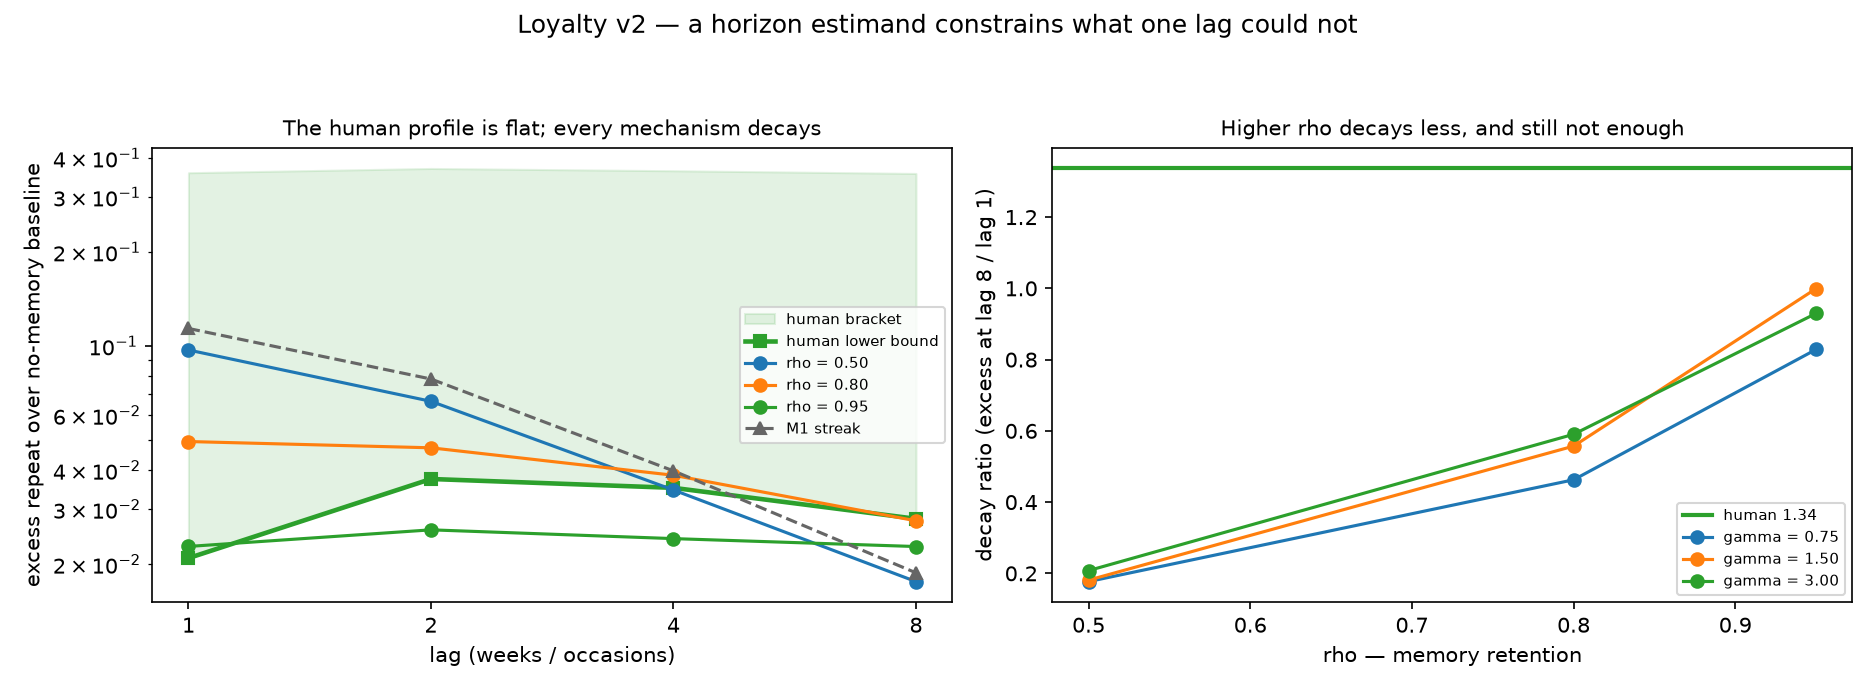
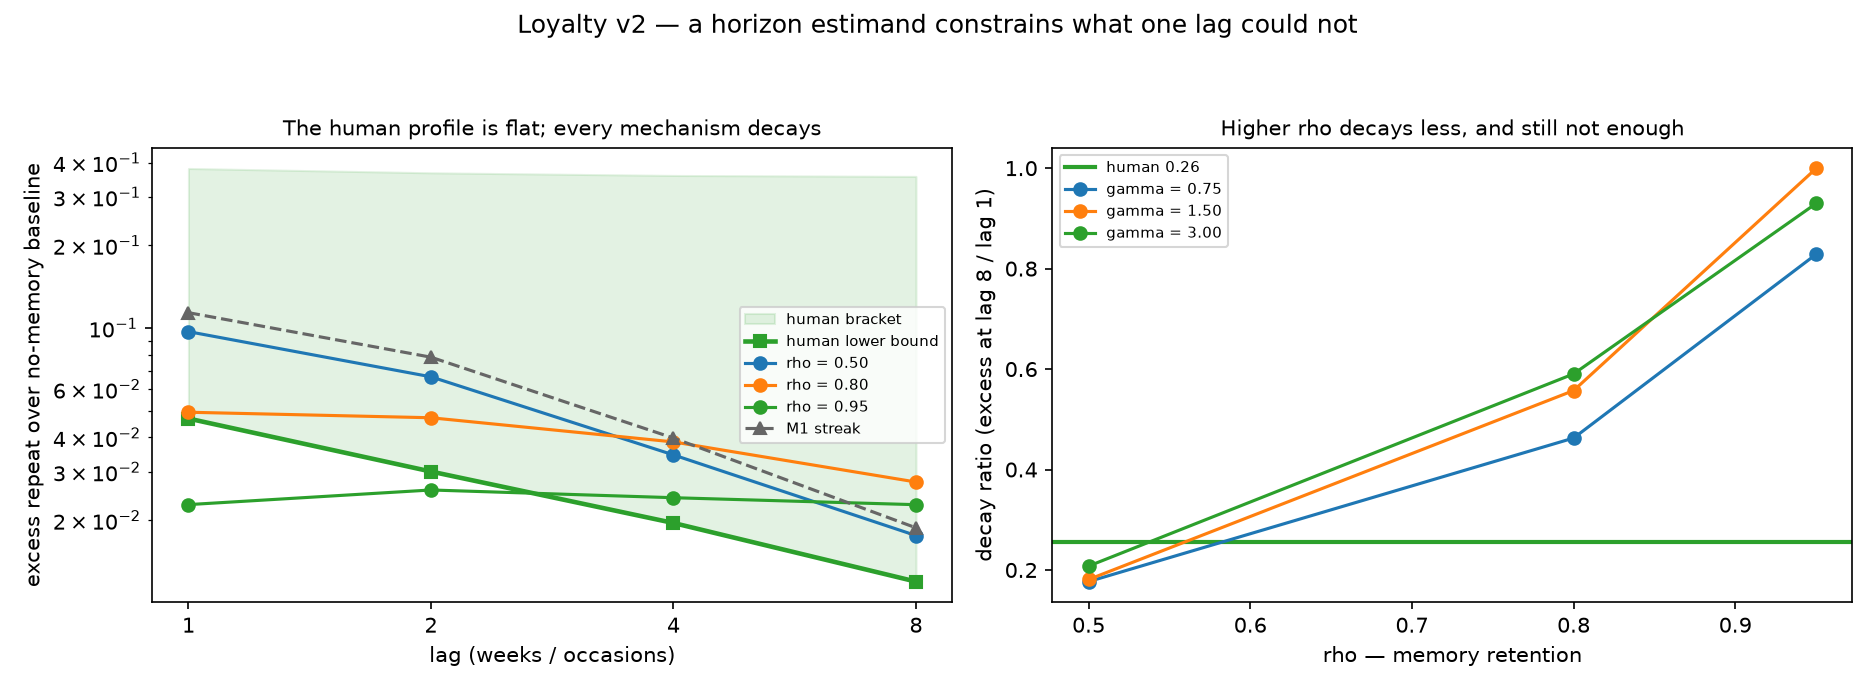
Put the horizon experiment on the parity-free split it concluded from
run_horizon.py was left on the alternating split after that split was shown
to be the artifact, so its committed figure and CSV carried the withdrawn
numbers - a flat human profile at ratio 1.337 favouring rho = 0.95 - while
the spec section carried the corrected ones. Anyone reading the results
directory would have got the retracted answer.

It now runs both and prints the alternating profile explicitly as the
artifact, so the thing that was wrong stays visible rather than being quietly
dropped, and takes every conclusion from the contiguous split. Two strings
that were true only under the artifact are corrected with it: "every cell
decays; the human profile does not" is now false, since under a parity-free
split the human profile decays too.

Its secondary criterion - the simulated level inside the human bracket at
every lag rather than only at lag 1 - passes in 4 of 9 cells, and the closest
cell by decay shape is rho = 0.50, gamma = 3.00 at 0.208.

diff --git a/experiments/loyalty_v2/run_horizon.py b/experiments/loyalty_v2/run_horizon.py
@@ -72,12 +72,34 @@ def main() -> int:
 
     panel = human.load()
     l2, _ = human.select_l2(panel)
+
+    # Both splits, because the difference between them IS the finding here.
+    # Under "alternating" an antecedent an odd number of occasions back is
+    # always a training occasion and an even one always held out, so the
+    # measured excess alternates with lag parity - a bias that is a function
+    # of the lag, which is fatal for a shape comparison. The conclusions below
+    # rest on "contiguous"; the alternating profile is reported so the
+    # artifact stays visible rather than being quietly dropped.
+    alternating = human.repeat_bracket_by_lag(panel, LAGS, l2=l2,
+                                              split="alternating")
+    alt_ratio = float(alternating.set_index("lag").loc[8, "lower"]
+                      / alternating.set_index("lag").loc[1, "lower"])
+    print(f"  Human panel, ALTERNATING split (the artifact): "
+          f"ratio {alt_ratio:.3f}")
+    print("    " + "  ".join(f"lag {r.lag}: {r.lower:+.4f}"
+                             for r in alternating.itertuples()))
+    print("    Odd lags are biased low: their antecedent is a training "
+          "occasion.\n")
+
     human_rows = []
-    print(f"  Human panel (l2 = {l2}, selected on held-out log-loss):")
+    print(f"  Human panel, CONTIGUOUS split (l2 = {l2}, "
+          f"selected on held-out log-loss):")
     print(f"  {'lag':>4s} {'n':>6s} {'observed':>10s} {'memoryless':>11s} "
           f"{'lower':>9s} {'upper':>9s}")
+    fit = human.fit_memoryless_choice(panel, household_effects=True, l2=l2,
+                                      split="contiguous")
     for lag in LAGS:
-        d = human.conditional_repeat_baseline(panel, l2=l2, lag=lag)
+        d = human._repeat_at_lag(panel, fit, lag)
         human_rows.append({"lag": lag, "n": d["n_held_out"],
                            "observed": d["observed_repeat"],
                            "memoryless": d["memoryless_predicted_repeat"],
@@ -93,7 +115,9 @@ def main() -> int:
     # by one at any parameter value.
     h_lower = human_frame.set_index("lag")["lower"]
     human_ratio = float(h_lower[8] / h_lower[1])
-    print(f"\n  Human decay ratio (lag 8 / lag 1, lower bound): {human_ratio:.3f}")
+    print(f"\n  Human decay ratio (lag 8 / lag 1, lower bound): {human_ratio:.3f} "
+          f"under the parity-free split, against {alt_ratio:.3f} under the "
+          f"alternating one.")
 
     rows = []
     print(f"\n  Simulator, excess by lag:")
@@ -120,7 +144,10 @@ def main() -> int:
 
     frame = pd.DataFrame(rows)
     frame.to_csv(RESULTS_ROOT / "horizon_cells.csv", index=False)
-    human_frame.to_csv(RESULTS_ROOT / "horizon_human.csv", index=False)
+    human_frame["split"] = "contiguous"
+    alternating["split"] = "alternating"
+    pd.concat([human_frame, alternating], ignore_index=True).to_csv(
+        RESULTS_ROOT / "horizon_human.csv", index=False)
     plot(frame, human_frame, m1)
 
     n_every = int(frame["admissible_every_lag"].sum())
@@ -129,7 +156,8 @@ def main() -> int:
           f"(Gate A's one-step test passed 8/9).")
     print(f"  Human decay ratio {human_ratio:.3f}; closest cell "
           f"{closest['cell']} at {closest['decay_ratio']:.3f}. "
-          f"Every cell decays; the human profile does not.")
+          f"The human profile decays too, at a rate between rho = 0.50 and "
+          f"rho = 0.80.")
 
     experiment_log.append_row(LOG_PATH, {
         "experiment_id": "loyaltyv2_horizon_shape",
@@ -153,7 +181,7 @@ def main() -> int:
         "human_benchmark_status": "compared_to_published_panel",
         "participation_rate": "N/A - conditional on choice",
         "result_summary": (
-            f"Human excess is flat across lags ("
+            f"Human excess decays across lags ("
             + ", ".join(f"lag {r.lag}: {r.lower:+.4f}" for r in human_frame.itertuples())
             + f"), decay ratio {human_ratio:.3f}. Every simulator cell decays; "
             f"ratios run {frame['decay_ratio'].min():.3f} to "

diff --git a/docs/phase_specifications.md b/docs/phase_specifications.md
@@ -3555,6 +3555,16 @@ gates agree in direction, but only A2b is entitled to the conclusion.
 An earlier reading of the alternating-split profile — that its flatness
 favoured `rho = 0.95` — was the parity artifact and is withdrawn.
 
+**The horizon experiment now runs both splits and reports them side by side**,
+with its conclusions taken from the contiguous one. It had been left on the
+alternating split after that split was found to be the artifact, so its
+committed figure and table carried the withdrawn numbers while this section
+carried the corrected ones. Under the parity-free split its secondary
+criterion — the simulated level falling inside the human bracket at *every*
+lag rather than only at lag 1 — passes in **4 of 9** cells against Gate A1's
+8 of 9, and the closest cell by decay shape is `rho = 0.50, gamma = 3.00` at
+0.208 rather than the `rho = 0.95` cell the artifact had favoured.
+
 
 ### Gate B result — the null survives a mechanism built to break it
 
